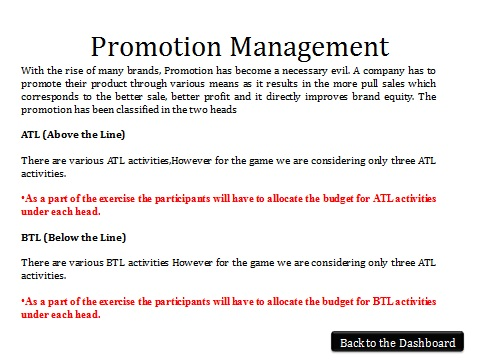
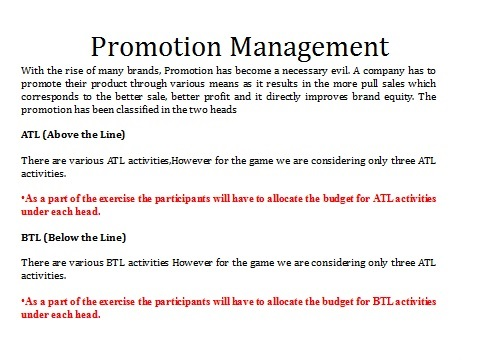
Slides updated for each Tab

diff --git a/MSim/Scripts/app/fmcg.viewmodel.js b/MSim/Scripts/app/fmcg.viewmodel.js
@@ -570,20 +570,50 @@ fmcgGame.config(["$stateProvider", "$urlRouterProvider", "$locationProvider", fu
                             size: size,
                         });
                     };
-                    $scope.open();
+                    $scope.open("lg");
                 }
             }).
             state('playgame.ManagingSalesTeam', {
                 url: '/ManagingSalesTeam',
-                templateUrl: 'templates/industries/fmcg/sales/SalesTeamManagement.html'
+                templateUrl: 'templates/industries/fmcg/sales/SalesTeamManagement.html',
+                controller: function ($scope, $uibModal) {
+                    $scope.open = function (size) {
+                        var modalInstance = $uibModal.open({
+                            animation: $scope.animationsEnabled,
+                            templateUrl: 'salesMgmt.html',
+                            size: size,
+                        });
+                    };
+                    $scope.open("lg");
+                }
             }).
             state('playgame.ManagingPromotions', {
                 url: '/ManagingPromotions',
-                templateUrl: 'templates/industries/fmcg/Promotions/PromotionManagement.html'
+                templateUrl: 'templates/industries/fmcg/Promotions/PromotionManagement.html',
+                controller: function ($scope, $uibModal) {
+                    $scope.open = function (size) {
+                        var modalInstance = $uibModal.open({
+                            animation: $scope.animationsEnabled,
+                            templateUrl: 'promMgmt.html',
+                            size: size,
+                        });
+                    };
+                    $scope.open("lg");
+                }
             }).
             state('playgame.ManagingProduct', {
                 url: '/ManagingProduct',
-                templateUrl: 'templates/industries/fmcg/Products/ProductManagement.html'
+                templateUrl: 'templates/industries/fmcg/Products/ProductManagement.html',
+                controller: function ($scope, $uibModal) {
+                    $scope.open = function (size) {
+                        var modalInstance = $uibModal.open({
+                            animation: $scope.animationsEnabled,
+                            templateUrl: 'prodMgmt.html',
+                            size: size,
+                        });
+                    };
+                    $scope.open("lg");
+                }
             }).
             state('playgame.Results', {
                 url: '/Results',

diff --git a/MSim/templates/Industries/fmcg/Products/ProductManagement.html b/MSim/templates/Industries/fmcg/Products/ProductManagement.html
@@ -176,6 +176,36 @@
     <div class="popover-amber">FSSAI alows us of mixing upto 20%. This will help in cost reduction. Please give it a thought.</div>
 </script>
 
+<script type="text/ng-template" id="prodMgmt.html">
+
+    <div class="row">
+        <div class="col-md-12">
+            <div id="carousel-ProductManagement" class="carousel slide" data-ride="carousel">
+                <ol class="carousel-indicators">
+                    <li data-target="#carousel-ProductManagement" data-slide-to="0" class="active"></li>
+                    <li data-target="#carousel-ProductManagement" data-slide-to="1" class=""></li>
+                </ol>
+                <div class="carousel-inner" role="listbox">
+                    <div class="item active">
+                        <img style="width: 100%; height: 100%;" alt="First slide [900x500]" src="/Content/Slides/Industries/fmcg/Products/1.jpg" data-holder-rendered="true">
+                    </div>
+                    <div class="item">
+                        <img style="width: 100%; height: 100%;" alt="First slide [900x500]" src="/Content/Slides/Industries/fmcg/Products/2.jpg" data-holder-rendered="true">
+                    </div>
+                </div>
+                <a ng-non-bindable class="left carousel-control" href="#carousel-ProductManagement" role="button" data-slide="prev">
+                    <span class="glyphicon glyphicon-chevron-left" aria-hidden="true"></span>
+                    <span class="sr-only">Previous</span>
+                </a>
+                <a ng-non-bindable class="right carousel-control" href="#carousel-ProductManagement" role="button" data-slide="next">
+                    <span class="glyphicon glyphicon-chevron-right" aria-hidden="true"></span>
+                    <span class="sr-only">Next</span>
+                </a>
+            </div>
+        </div>
+    </div>
+
+</script>
 
 
 

diff --git a/MSim/templates/Industries/fmcg/Promotions/PromotionManagement.html b/MSim/templates/Industries/fmcg/Promotions/PromotionManagement.html
@@ -138,3 +138,31 @@
     </div>
     <div class="panel-footer"></div>
 </div>
+
+
+<script type="text/ng-template" id="promMgmt.html">
+
+    <div class="row">
+        <div class="col-md-12">
+            <div id="carousel-PromManagement" class="carousel slide" data-ride="carousel">
+                <ol class="carousel-indicators">
+                    <li data-target="#carousel-PromManagement" data-slide-to="0" class="active"></li>
+                </ol>
+                <div class="carousel-inner" role="listbox">
+                    <div class="item active">
+                        <img style="width: 100%; height: 100%;" alt="First slide [900x500]" src="/Content/Slides/Industries/fmcg/Promotions/1.jpg" data-holder-rendered="true">
+                    </div>
+                </div>
+                <a ng-non-bindable class="left carousel-control" href="#carousel-PromManagement" role="button" data-slide="prev">
+                    <span class="glyphicon glyphicon-chevron-left" aria-hidden="true"></span>
+                    <span class="sr-only">Previous</span>
+                </a>
+                <a ng-non-bindable class="right carousel-control" href="#carousel-PromManagement" role="button" data-slide="next">
+                    <span class="glyphicon glyphicon-chevron-right" aria-hidden="true"></span>
+                    <span class="sr-only">Next</span>
+                </a>
+            </div>
+        </div>
+    </div>
+
+</script>

diff --git a/MSim/templates/Industries/fmcg/Sales/SalesTeamManagement.html b/MSim/templates/Industries/fmcg/Sales/SalesTeamManagement.html
@@ -67,3 +67,31 @@
     </div>
     <div class="panel-footer"></div>
 </div>
+
+
+<script type="text/ng-template" id="salesMgmt.html">
+
+    <div class="row">
+        <div class="col-md-12">
+            <div id="carousel-PromManagement" class="carousel slide" data-ride="carousel">
+                <ol class="carousel-indicators">
+                    <li data-target="#carousel-Sales" data-slide-to="0" class="active"></li>
+                </ol>
+                <div class="carousel-inner" role="listbox">
+                    <div class="item active">
+                        <img style="width: 100%; height: 100%;" alt="First slide [900x500]" src="/Content/Slides/Industries/fmcg/Sales/1.jpg" data-holder-rendered="true">
+                    </div>
+                </div>
+                <a ng-non-bindable class="left carousel-control" href="#carousel-Sales" role="button" data-slide="prev">
+                    <span class="glyphicon glyphicon-chevron-left" aria-hidden="true"></span>
+                    <span class="sr-only">Previous</span>
+                </a>
+                <a ng-non-bindable class="right carousel-control" href="#carousel-Sales" role="button" data-slide="next">
+                    <span class="glyphicon glyphicon-chevron-right" aria-hidden="true"></span>
+                    <span class="sr-only">Next</span>
+                </a>
+            </div>
+        </div>
+    </div>
+
+</script>
